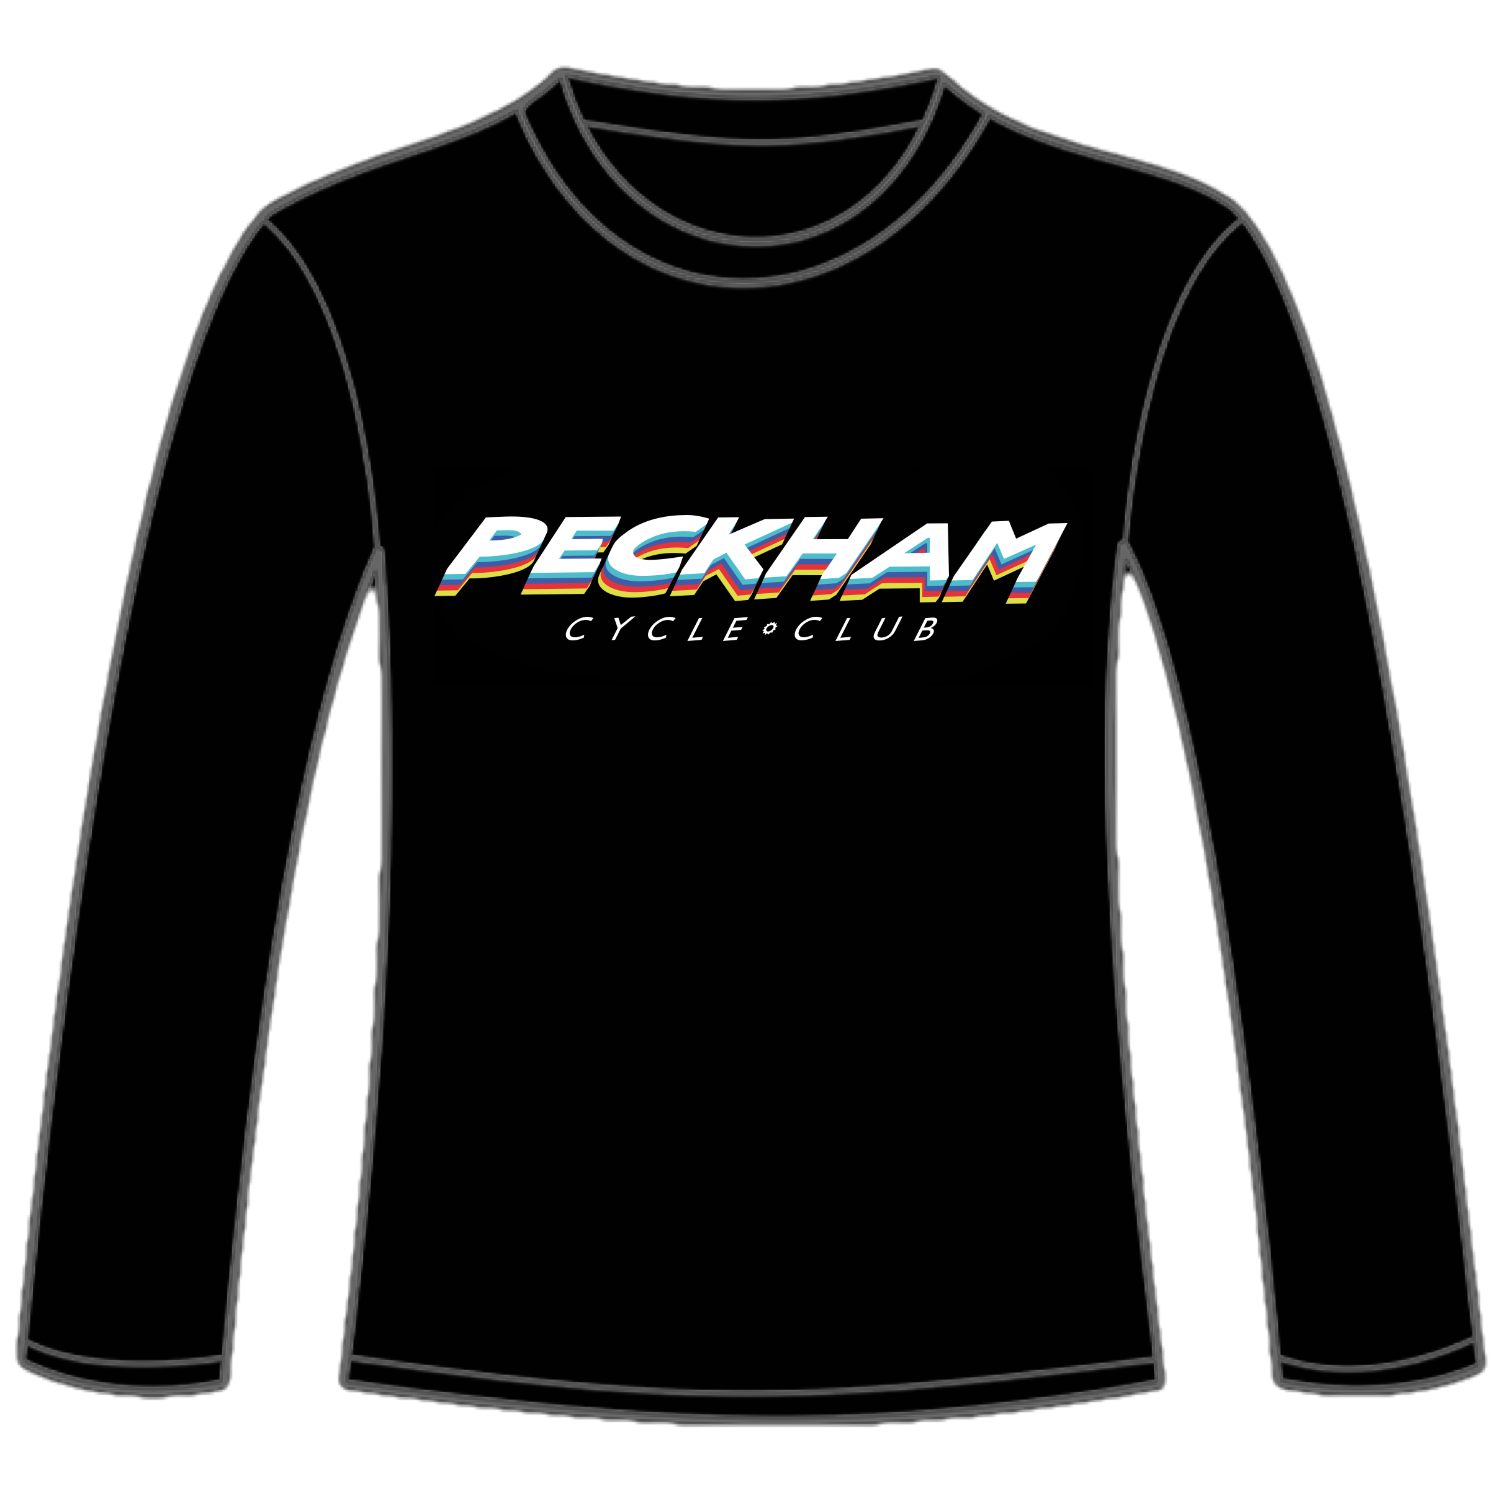
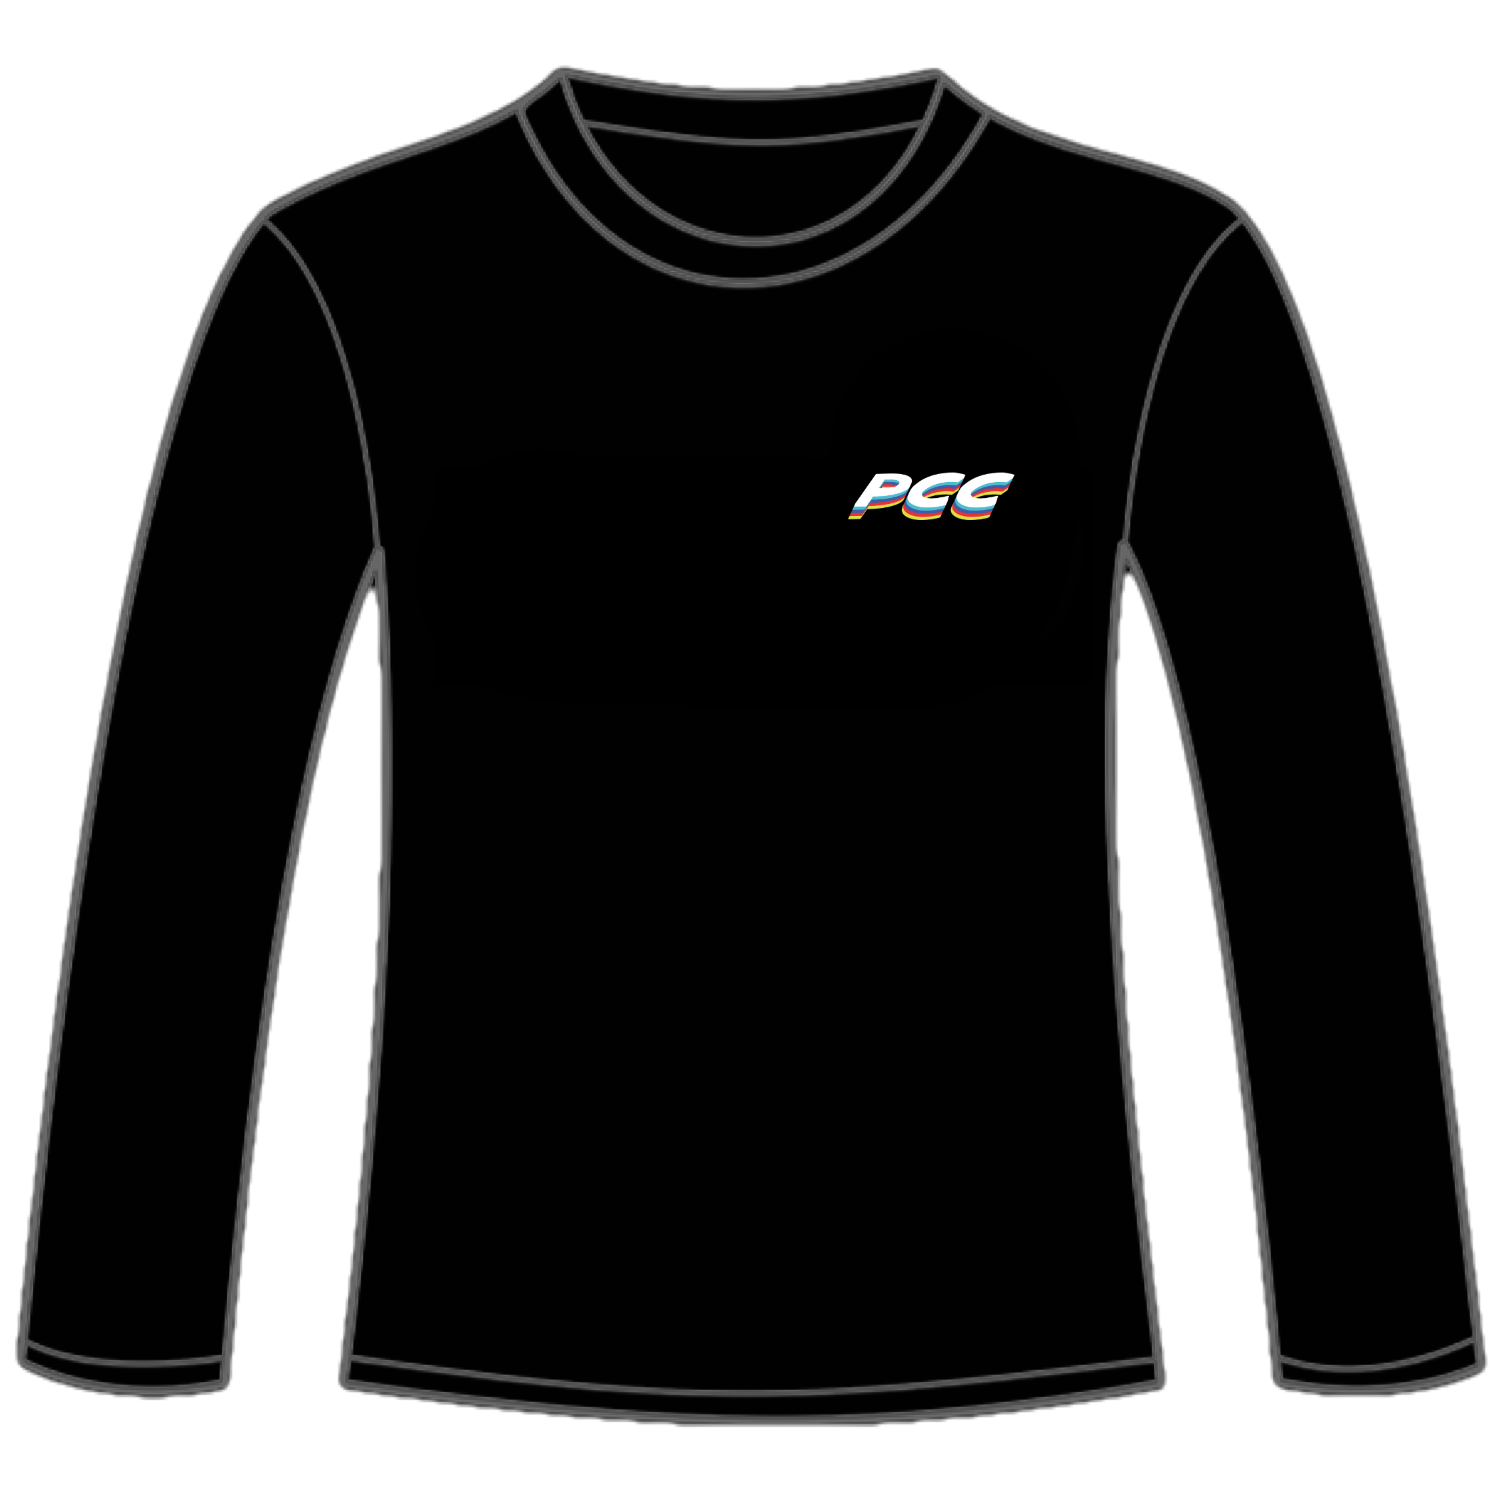
update casualwear graphics and postage prices

Changed region(s): [[0.2754, 0.3061, 0.7039, 0.4285]]

diff --git a/packages/website/src/components/shop/panels.jsx b/packages/website/src/components/shop/panels.jsx
@@ -42,17 +42,17 @@ import multiTubeImage from '../../../assets/shop/multi-tube.png'
 // import headsetCapImage from '../../../assets/shop/headset-cap.png'
 import bidonImage from '../../../assets/shop/bidon.png'
 import tshirtBlkFrontImage from '../../../assets/shop/t-shirt-2021-blk-front.png'
+import tshirtBlkBackImage from '../../../assets/shop/t-shirt-2021-blk-back.png'
 import tshirtWhiFrontImage from '../../../assets/shop/t-shirt-2021-whi-front.png'
+import tshirtWhiBackImage from '../../../assets/shop/t-shirt-2021-whi-back.png'
 import lsTshirtBlkFrontImage from '../../../assets/shop/ls-t-shirt-2021-blk-front.png'
+import lsTshirtBlkBackImage from '../../../assets/shop/ls-t-shirt-2021-blk-back.png'
 import lsTshirtWhiFrontImage from '../../../assets/shop/ls-t-shirt-2021-whi-front.png'
+import lsTshirtWhiBackImage from '../../../assets/shop/ls-t-shirt-2021-whi-back.png'
 import hoodieBlkFrontImage from '../../../assets/shop/hoodie-2021-blk-front.png'
 import hoodieBlkBackImage from '../../../assets/shop/hoodie-2021-blk-back.png'
-import hoodieWhiFrontImage from '../../../assets/shop/hoodie-2021-whi-front.png'
-import hoodieWhiBackImage from '../../../assets/shop/hoodie-2021-whi-back.png'
 import zipHoodieBlkFrontImage from '../../../assets/shop/zip-hoodie-2021-blk-front.png'
 import zipHoodieBlkBackImage from '../../../assets/shop/zip-hoodie-2021-blk-back.png'
-import zipHoodieWhiFrontImage from '../../../assets/shop/zip-hoodie-2021-whi-front.png'
-import zipHoodieWhiBackImage from '../../../assets/shop/zip-hoodie-2021-whi-back.png'
 import musetteImage from '../../../assets/shop/musette.png'
 import speedSuitFrontImage from '../../../assets/shop/skin-suit-front.png'
 import speedSuitRearImage from '../../../assets/shop/skin-suit-rear.png'
@@ -160,36 +160,32 @@ export const ITEM_IMAGES = {
     BLK: [
       hoodieBlkFrontImage,
       hoodieBlkBackImage
-    ],
-    WHI: [
-      hoodieWhiFrontImage,
-      hoodieWhiBackImage
     ]
   },
   'zip-hoodie-2021': {
     BLK: [
       zipHoodieBlkFrontImage,
       zipHoodieBlkBackImage
-    ],
-    WHI: [
-      zipHoodieWhiFrontImage,
-      zipHoodieWhiBackImage
     ]
   },
   't-shirt-2021': {
     BLK: [
-      tshirtBlkFrontImage
+      tshirtBlkFrontImage,
+      tshirtBlkBackImage
     ],
     WHI: [
-      tshirtWhiFrontImage
+      tshirtWhiFrontImage,
+      tshirtWhiBackImage
     ]
   },
   'ls-t-shirt-2021': {
     BLK: [
-      lsTshirtBlkFrontImage
+      lsTshirtBlkFrontImage,
+      lsTshirtBlkBackImage
     ],
     WHI: [
-      lsTshirtWhiFrontImage
+      lsTshirtWhiFrontImage,
+      lsTshirtWhiBackImage
     ]
   },
   'royal-mail-shipping': [

diff --git a/packages/config/index.js b/packages/config/index.js
@@ -624,10 +624,10 @@ const config = {
     fopccCancel: 'http://localhost:9000/profile/fopcc',
     fopccId: 'price_1I2XUx2cnIK2AWWQ8Y5xgq4I',
     shipping: [
-      'price_1IFdvZ2cnIK2AWWQlmQmCp9s', // £3.30 Royal Mail 24
       'price_1IFdwE2cnIK2AWWQfH3dewBh', // £3.80 Royal Mail 24
-      'price_1IFduC2cnIK2AWWQnRH1Jylp', // £5.60 DPD
-      'price_1IFdud2cnIK2AWWQJwCOubZG' // £8.50 DPD
+      'price_1Ip8w42cnIK2AWWQGEYHL61S', // £5.90 Royal Mail 24
+      'price_1Ip8sK2cnIK2AWWQvClVj3Q0', // £6.50 DPD
+      'price_1Ip8s32cnIK2AWWQNDThkyak' // £10.50 DPD
     ]
   },
   inkthreadable: {
